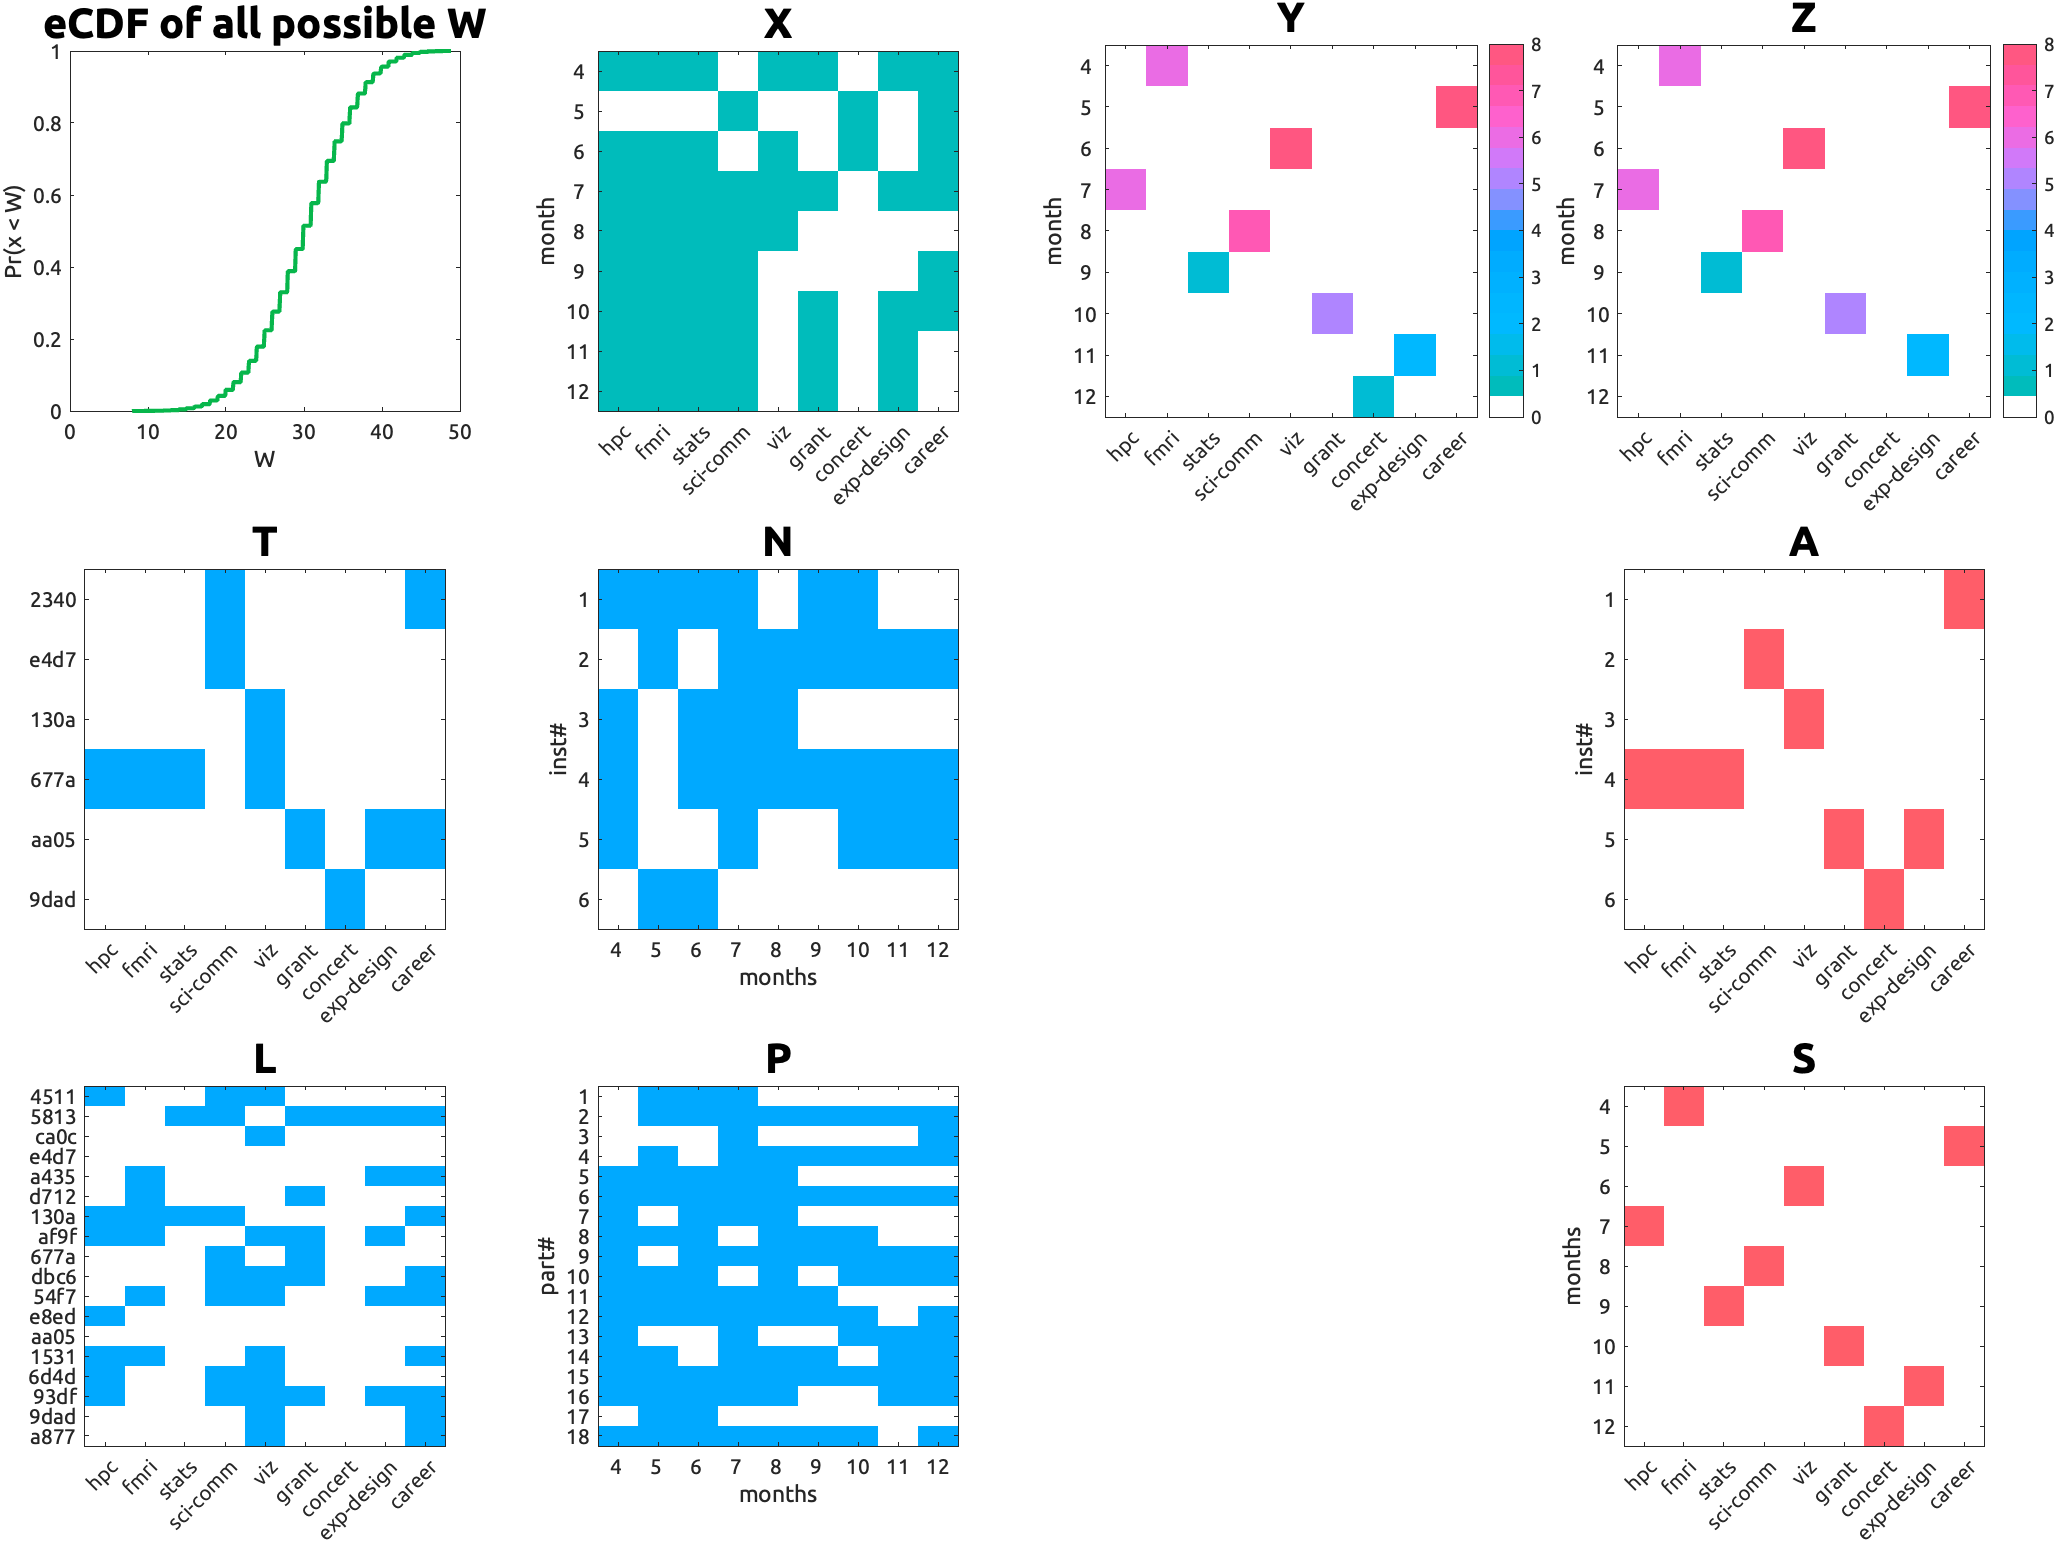
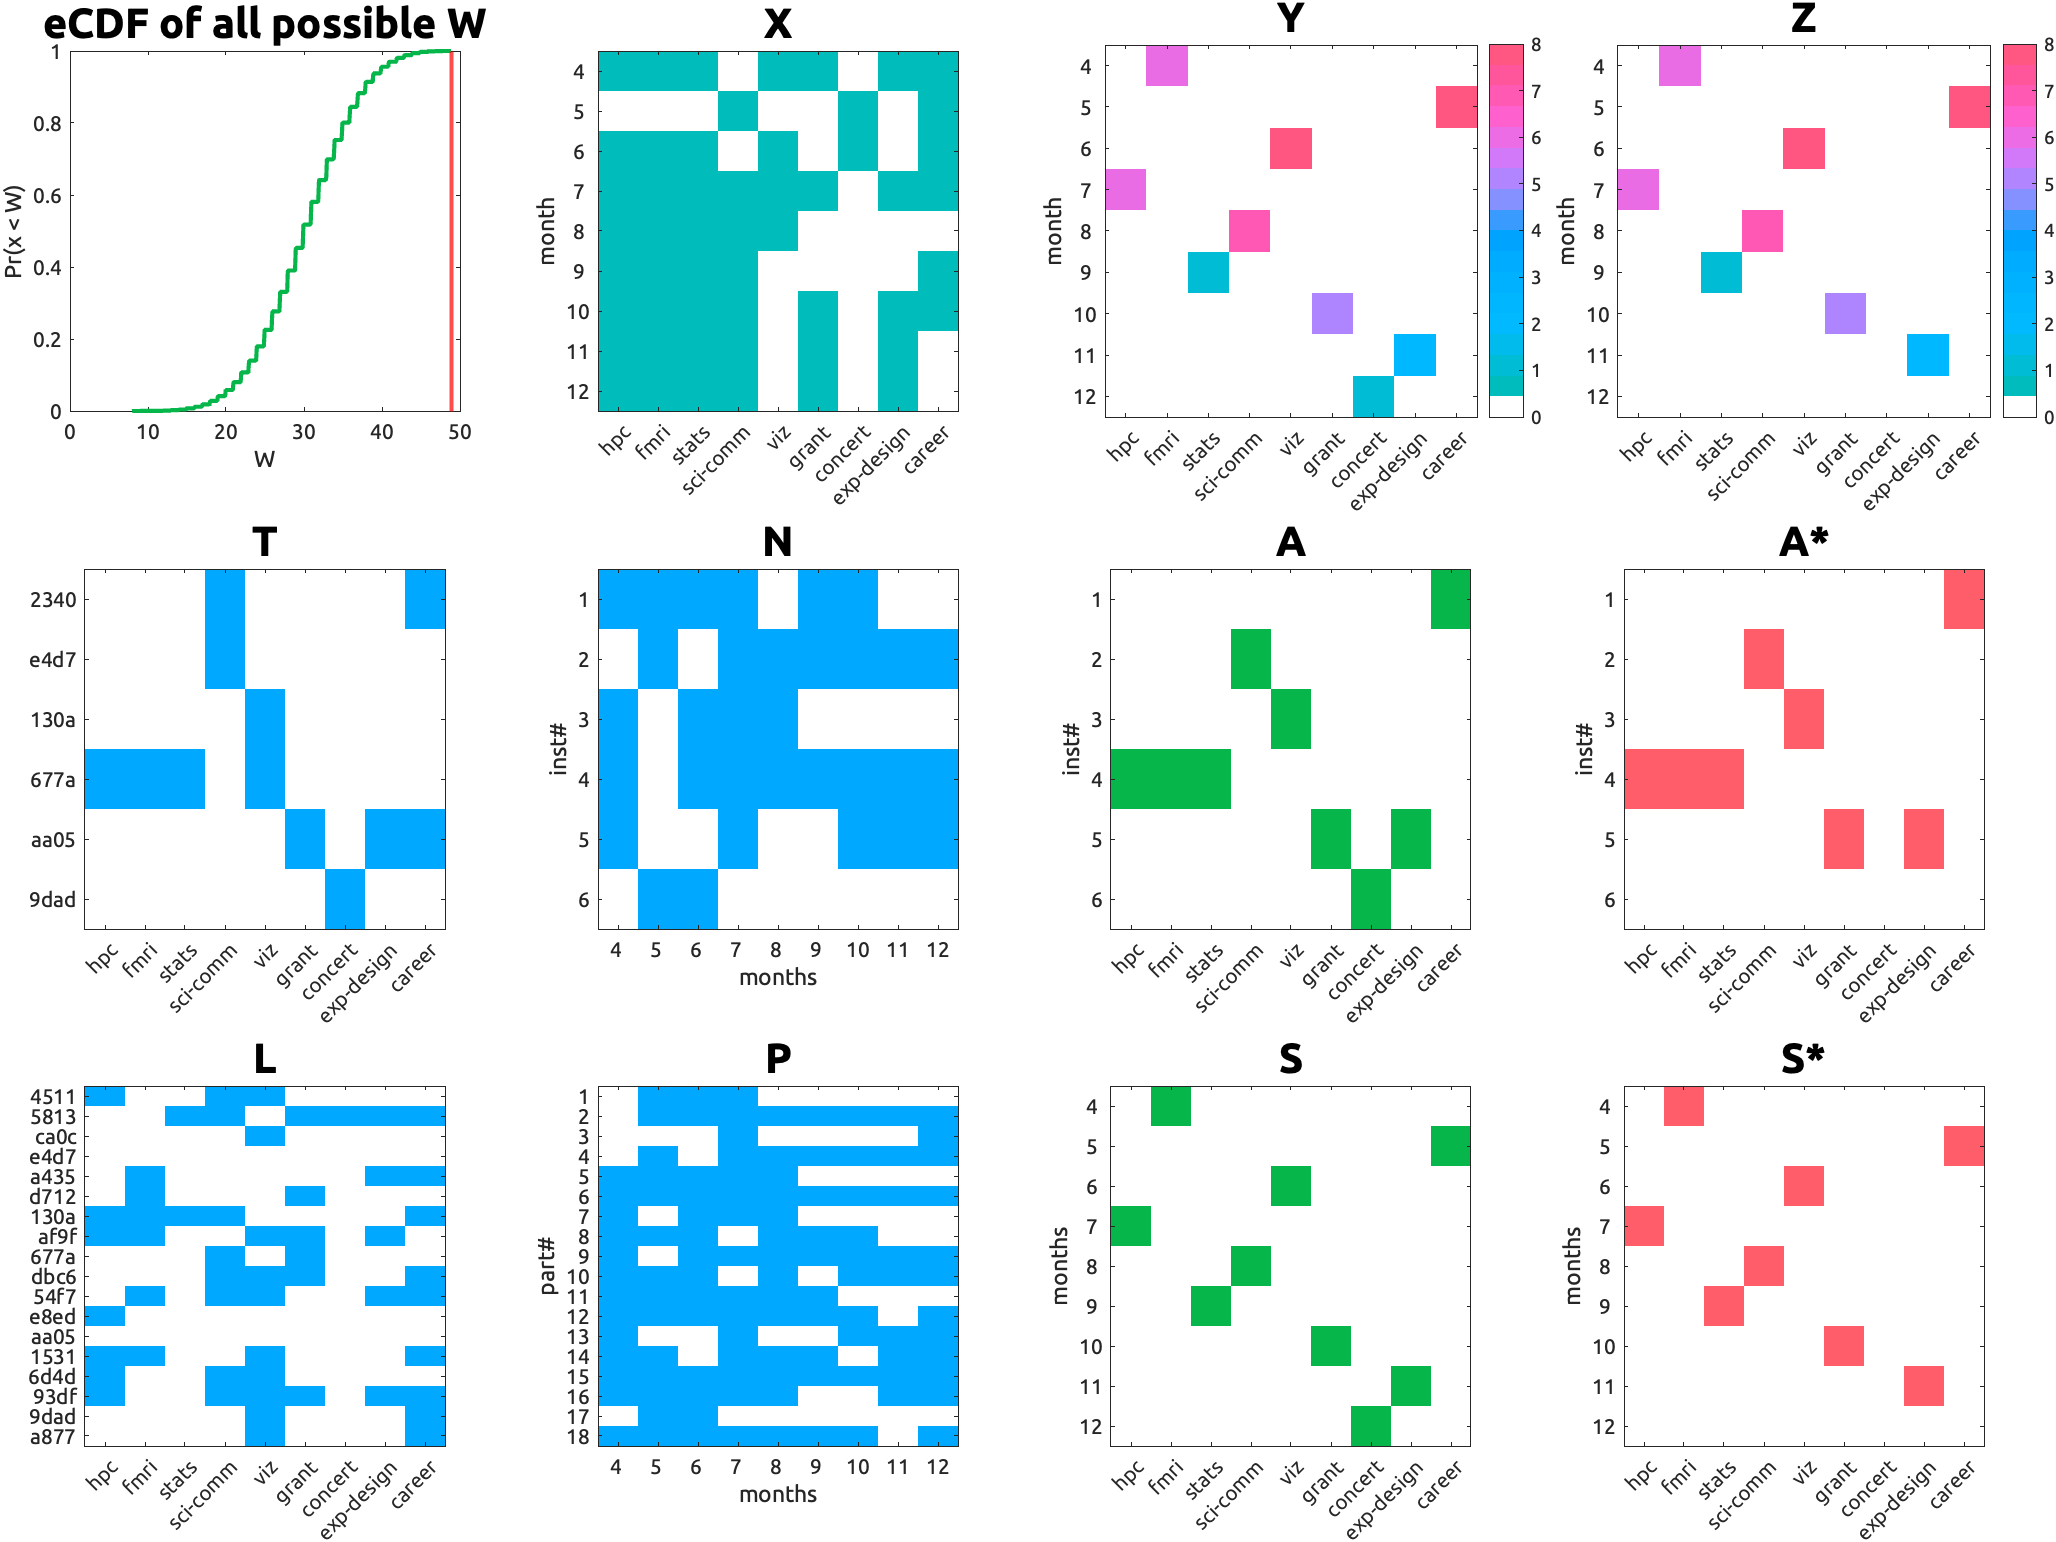
goo-fig2+

diff --git a/_posts/2026-02-27-goo.md b/_posts/2026-02-27-goo.md
@@ -173,7 +173,7 @@ $$
 ## 1. Optimisation
 
 The universal optimiser (i.e., "try-many-random-legal-solutions-and-find-the-best-one") is used. 
-To ensure reproducibility and avoid storing the entire matrices, a sequence of natural numbers was used as seed values. A reasonable search could have stopped at around 100,000 iterations (3.332 seconds). But GOO is committed to the over-optimisation and was willing to sample more than the total number of possible combinations. So, the search was extended to 10,000,000 iterations (333.550 seconds). "The solution was identical to that with 100,000 iterations and a complete waste of time (nice!)." could have been hilarious, but it turns out that we need this many iterations for this brute-force approach. 🤷
+To ensure reproducibility and avoid storing the entire matrices, a sequence of natural numbers was used as seed values. A reasonable search could have stopped at around 100,000 iterations (7.274 seconds). But GOO is committed to the over-optimisation and was willing to sample more than the total number of possible combinations. So, the search was extended to 10,000,000 iterations 734.672 seconds). "The solution was identical to that with 100,000 iterations and a complete waste of time (nice!)." could have been hilarious, but it turns out that we need this many iterations for this brute-force approach. 🤷
 
 But let's step back and think about the number of possible combinations.
 When #Months ≥ #Topics, the number of all possible permutations of $\mathbf{S}$ is:
@@ -188,7 +188,7 @@ $$
 \prod_j \|t_j\|.
 $$
 
-When #Instructors=6, #Topics=9, #Months=9, and $\prod_j \|\|t_j\|\| = 8$, the total number of possible permutations is 2,903,040 < 10,000,000. That is, an exhaustive search of all possible combinations would have been actually more efficient than a random search (nice!). Because the random search is more fun and more in the spirit of over-optimisation, so I went with that. 🤡
+When #Instructors=6, #Topics=9, #Months=9, and $\prod_j \|\|t_j\|\| = 8$, the total number of possible permutations is 2,903,040 < 10,000,000. That is, an exhaustive search of all possible combinations would have been actually more efficient than a random search (nice!). Because the random search is more fun and more in the spirit of over-optimisation, so I went with that. 🤡 (See Joke Analysis below.)
 
 ## 2. Implementation
 Because the new version of Julia seems to have some problems with the current MacOS, I implemented the GOO algorithm in MATLAB:
@@ -269,6 +269,17 @@ The random search with 1e7 (ten million) iterations took 358.2 seconds and found
 | _Fig 1. An example solution. Names are hashed. Topic names are abbreviated._ |
 
 The optimal assignment ($\mathbf{A}$; e.g., Instructor 4 does three topics) and session schedule ($\mathbf{S}$; those three topics are scheduled in August, April and September) achieves the maximal utility.
+
+## 4. Joke analysis
+
+The GOO algorithm is a joke because it is an unnecessarily complicated solution to a simple problem. It is also a joke because it is more inefficient than an exhaustive search. However, it is not a joke when the random search actually finds the optimal solution much faster than the exhaustive search. This depends on the dimensions of the problem and the arbitrary number of iterations chosen for the random search.
+
+We can pin-point where it stops being a joke: when the number of iterations is less than the total number of possible combinations, and the random search finds a solution that is close to the optimal solution. We can do this by simply estimating bootstrapped mean utility of random solutions with different numbers of iterations, and compare it with the optimal solution.
+
+| <img alt="goo" src="/assets/img/blog/goo-fig2.png" width="800px" data-zoomable> |
+| _Fig 2. Joke analysis._ |
+
+So, from the analysis, it's clear that the GOO iteration (10^7) is still a joke (inefficient than the exhaustive search 🙃). But for about 10^5 iterations, it is already actually efficient (with the GOO optimum in its 95% confidence interval) random search (killing the joke 🤓).
 
 ---
 [^1]: Since the second Trump administraion ("Fool me twice, ..."), I decided to use British spelling instead, because now it feels somehow very awkward.
